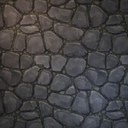
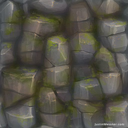
fix: fixed wall textures and colors

diff --git a/src/main.rs b/src/main.rs
@@ -22,9 +22,10 @@ mod splash_screen;
 
 mod audio;
 
-static WALL: Lazy<Arc<Texture>> = Lazy::new(||  Arc::new(Texture::new("src\\assets\\door.png")));
-static WALL1: Lazy<Arc<Texture>> = Lazy::new(||  Arc::new(Texture::new("src\\assets\\wall3.png")));
-static DOOR: Lazy<Arc<Texture>> = Lazy::new(||  Arc::new(Texture::new("src\\assets\\wall1.png")));
+static WALL: Lazy<Arc<Texture>> = Lazy::new(||  Arc::new(Texture::new("src\\assets\\wall.png")));
+static WALL1: Lazy<Arc<Texture>> = Lazy::new(||  Arc::new(Texture::new("src\\assets\\wall1.png")));
+static WALL2: Lazy<Arc<Texture>> = Lazy::new(||  Arc::new(Texture::new("src\\assets\\wall2.png")));
+static DOOR: Lazy<Arc<Texture>> = Lazy::new(||  Arc::new(Texture::new("src\\assets\\door1.png")));
 
 
 fn cell_to_texture_color(cell: char, tx: u32, ty: u32) -> u32 {
@@ -32,9 +33,9 @@ fn cell_to_texture_color(cell: char, tx: u32, ty: u32) -> u32 {
     let default_color = 0x000000;
 
     match cell {
-        '+' => WALL1.get_pixel_color(tx, ty),
+        '+' => WALL.get_pixel_color(tx, ty),
         '-' => WALL1.get_pixel_color(tx, ty),
-        '|' => WALL1.get_pixel_color(tx, ty),
+        '|' => WALL2.get_pixel_color(tx, ty),
         'g' => DOOR.get_pixel_color(tx, ty),
         _ => default_color,
 
@@ -57,27 +58,6 @@ fn draw_cell(framebuffer: &mut Framebuffer, xo: usize, yo: usize, block_size: us
     }
 }
 
-fn render2d(framebuffer: &mut Framebuffer, player: &Player, maze: &Vec<Vec<char>>){
-    let block_size = 100; 
-
-    for row in 0..maze.len(){
-        for col in 0..maze[row].len(){
-            draw_cell(framebuffer, col * block_size, row * block_size, block_size, maze[row][col]);
-        }
-    }
-
-    framebuffer.set_current_color(0xFFFFFF);
-    framebuffer.point(player.pos.x as usize, player.pos.y as usize); 
-
-    let num_rays = 100; 
-
-    for i in 0..num_rays {
-        let current_ray = i as f32/ num_rays as f32; 
-        let a = player.a - (player.fov / 2.0) + (player.fov * current_ray); 
-        cast_ray(framebuffer, &maze, player, a, block_size, true); 
-    }
-}
-
 fn render3d(framebuffer: &mut Framebuffer, player: &Player, maze: &Vec<Vec<char>>){
 
     let block_size = 100; 
@@ -88,12 +68,12 @@ fn render3d(framebuffer: &mut Framebuffer, player: &Player, maze: &Vec<Vec<char>
 
     
     for i in 0..framebuffer.width {
-        framebuffer.set_current_color(0x383838);
+        framebuffer.set_current_color(0x74bfe6);
         for j in 0..(framebuffer.height / 2){
             framebuffer.point(i, j);
         }
     
-        framebuffer.set_current_color(0x717171);
+        framebuffer.set_current_color(0x8ca47e);
         for j in (framebuffer.height / 2)..framebuffer.height{
             framebuffer.point(i, j);
         }
